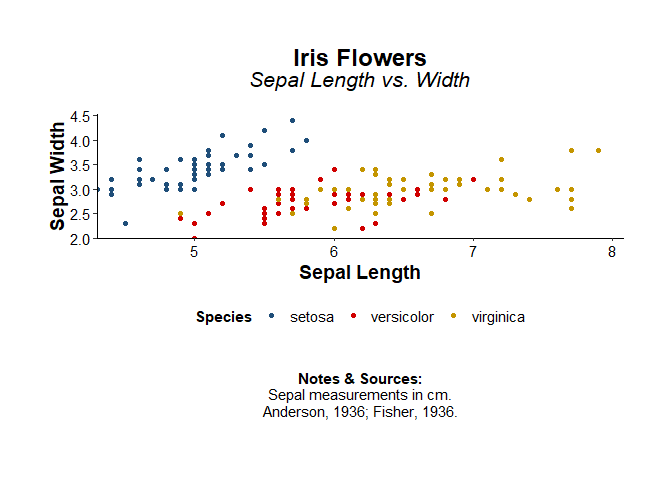
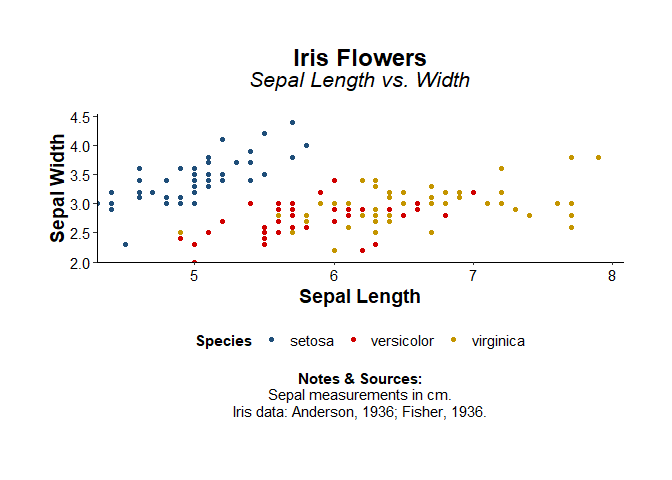
l

diff --git a/README.md b/README.md
@@ -50,8 +50,8 @@ plot + theme_clean()
 # add notes and sources
 plot + 
   labs(caption=notes_format(c("Sepal measurements in cm.",
-                              "Anderson, 1936; Fisher, 1936."))) + 
-  theme_clean(legend_title_size = 11)
+                              "Iris data: Anderson, 1936; Fisher, 1936."))) + 
+  theme_clean()
 ```
 
 <img src="man/figures/README-example-3.png" width="100%" />
